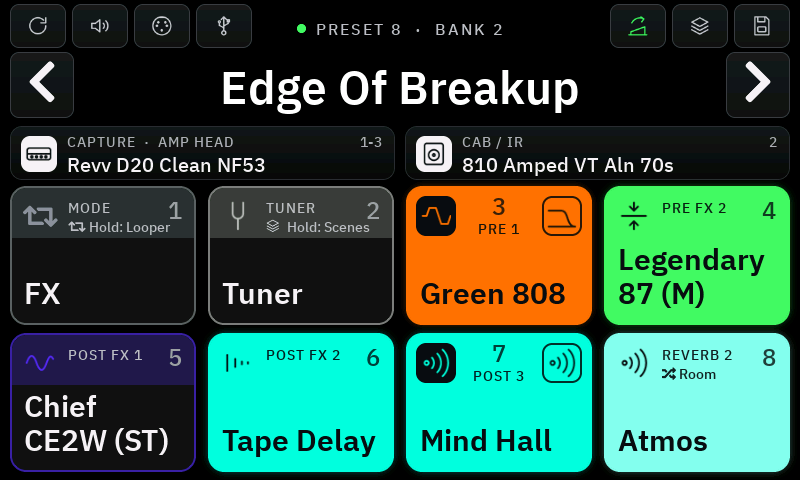
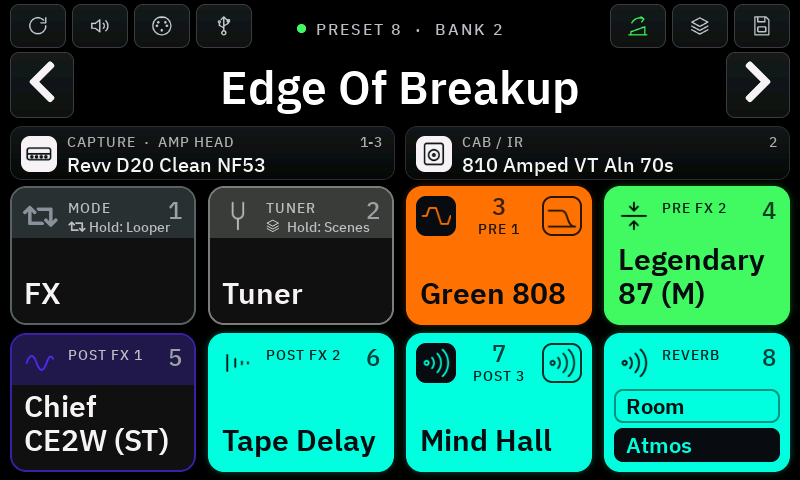
Reverb settings tile shows both names as rows; larger scene marks
- The reverb switch with two settings: both names on the tile, the one that is on filled, the other
  outlined (filled = on, as everywhere); neither filled when the reverb is set to something else.
- Scene tiles: the five effect marks 20 px instead of 14.

Changed region(s): [[0.75, 0.6875, 1.0, 1.0]]

diff --git a/main/ui.c b/main/ui.c
@@ -128,6 +128,9 @@ static lv_obj_t *s_cal_panel, *s_cal_bar, *s_cal_text, *s_cal_save;
 static lv_obj_t *s_ex_jack[2];   // the Nano's EXP/MIDI connector: [0] expression pedal, [1] MIDI
 static int s_jack_mode = -1;     // NANO_JACK_*, -1 = not known
 static bool s_linked;         // connected to the Nano
+// The reverb switch with two settings: both names as rows on the tile, the one that is on filled (draw_pair).
+typedef struct { bool shown, on; int active; char names[2][16]; uint32_t color; } tile_pair_t;   // active: 0 / 1, -1 = neither
+static tile_pair_t s_tile_pair[TILES];
 static int s_tile_marks[TILES];                 // 0 = none, else 0x200 | 0x100 if the tile is filled | bit n = FX slot n on
                                                 // | bit 16 + n = the scene carries settings for slot n
 static uint32_t s_slot_type[NANO_FX_SLOTS];     // effects of the current preset (filled by ui_show_state)
@@ -610,12 +613,13 @@ static void draw_scene_marks(lv_layer_t *layer, const lv_area_t *tile, int i)
         const nano_fx_model_t *model = nano_fx_model(s_slot_type[slot]);
         bool on = (s_tile_marks[i] >> slot) & 1;
         uint32_t color = filled ? s_tile_ink[i] : model ? model->color : 0x4A4F55;
-        lv_area_t a = { tile->x1 + 14 + slot * 21, tile->y1 + 16, tile->x1 + 14 + slot * 21 + 14, tile->y1 + 16 + 14 };
+        const int size = 20, pitch = 27, top = 12;   // (14 px marks could not be told apart from standing height)
+        lv_area_t a = { tile->x1 + 14 + slot * pitch, tile->y1 + top, tile->x1 + 14 + slot * pitch + size, tile->y1 + top + size };
         lv_draw_rect_dsc_t r;
         lv_draw_rect_dsc_init(&r);
-        r.radius = 4;
+        r.radius = 6;
         if (!model) {
-            a = (lv_area_t){ a.x1 + 5, a.y1 + 5, a.x2 - 5, a.y2 - 5 };
+            a = (lv_area_t){ a.x1 + 7, a.y1 + 7, a.x2 - 7, a.y2 - 7 };
             r.radius = LV_RADIUS_CIRCLE;
             r.bg_color = lv_color_hex(color);
             r.bg_opa = filled ? LV_OPA_50 : LV_OPA_COVER;
@@ -629,7 +633,7 @@ static void draw_scene_marks(lv_layer_t *layer, const lv_area_t *tile, int i)
         }
         lv_draw_rect(layer, &r, &a);
         if (model && ((s_tile_marks[i] >> (16 + slot)) & 1)) {   // the scene carries settings for this effect
-            lv_area_t bar = { a.x1 + 1, a.y2 + 4, a.x2 - 1, a.y2 + 6 };
+            lv_area_t bar = { a.x1 + 1, a.y2 + 4, a.x2 - 1, a.y2 + 7 };
             lv_draw_rect_dsc_init(&r);
             r.radius = 1;
             r.bg_color = lv_color_hex(color);
@@ -639,16 +643,51 @@ static void draw_scene_marks(lv_layer_t *layer, const lv_area_t *tile, int i)
     }
 }
 
+// The two settings of the reverb as two rows - the one that is on filled, the other outlined (as every pair of
+// states here: filled = on). With the reverb off the rows are dimmed, and the one that would be on stays marked.
+static void draw_pair(lv_layer_t *layer, const lv_area_t *tile, int i)
+{
+    const int h = 33, gap = 6, pad = 10;
+    for (int n = 0; n < 2; n++) {
+        int y2 = tile->y2 - pad - (1 - n) * (h + gap);
+        lv_area_t a = { tile->x1 + pad, y2 - h, tile->x2 - pad, y2 };
+        bool active = s_tile_pair[i].active == n;
+        uint32_t ink = s_tile_ink[i];
+        lv_draw_rect_dsc_t r;
+        lv_draw_rect_dsc_init(&r);
+        r.radius = 9;
+        if (active) {
+            r.bg_color = lv_color_hex(s_tile_pair[i].on ? ink : blend(s_tile_pair[i].color, TILE_OFF_BG, 0.45f));
+        } else {
+            r.bg_opa = LV_OPA_TRANSP;
+            r.border_width = 2;
+            r.border_color = lv_color_hex(s_tile_pair[i].on ? ink : 0x5D6267);
+            r.border_opa = s_tile_pair[i].on ? 110 : LV_OPA_COVER;
+        }
+        lv_draw_rect(layer, &r, &a);
+        lv_draw_label_dsc_t d;
+        lv_draw_label_dsc_init(&d);
+        d.font = &ui_font_title_22;
+        d.text = s_tile_pair[i].names[n];
+        d.align = LV_TEXT_ALIGN_LEFT;
+        d.color = lv_color_hex(active ? (s_tile_pair[i].on ? s_tile_pair[i].color : 0xFFFFFF) : s_tile_pair[i].on ? ink : 0xB9BDC2);
+        int lh = lv_font_get_line_height(d.font);
+        lv_area_t t = { a.x1 + 12, a.y1 + (h - lh) / 2 + 1, a.x2 - 8, a.y1 + (h - lh) / 2 + 1 + lh };
+        lv_draw_label(layer, &d, &t);
+    }
+}
+
 // A tile that is not active: its top row (symbol, caption, number) lies on the dimmed colour.
 static void on_tile_draw(lv_event_t *e)
 {
     int i = (int)(intptr_t)lv_event_get_user_data(e);
-    if (!s_tile_head[i] && !s_tile_marks[i]) return;
+    if (!s_tile_head[i] && !s_tile_marks[i] && !s_tile_pair[i].shown) return;
     lv_area_t a;
     lv_obj_get_coords(lv_event_get_current_target_obj(e), &a);
     lv_area_t in = { a.x1 + 2, a.y1 + 2, a.x2 - 2, a.y2 - 2 };   // inside the border
     if (s_tile_head[i]) draw_top(lv_event_get_layer(e), &in, 14, 50, blend(s_tile_head[i], TILE_OFF_BG, 0.24f));
     if (s_tile_marks[i]) draw_scene_marks(lv_event_get_layer(e), &a, i);
+    if (s_tile_pair[i].shown) draw_pair(lv_event_get_layer(e), &a, i);
 }
 
 static void build_tile(lv_obj_t *parent, int i)
@@ -757,6 +796,7 @@ static void set_tile(int i, const char *caption, const char *name, uint32_t colo
     s_tile_note[i] = NULL;
     s_tile_note_icon[i] = NULL;
     s_tile_marks[i] = 0;        // set again by show_scene_tiles
+    memset(&s_tile_pair[i], 0, sizeof(s_tile_pair[i]));   // set again for the reverb switch with two settings
     lv_obj_t *t = s_tile[i];
     uint32_t head = empty || active ? 0 : color;
     if (head != s_tile_head[i]) {
@@ -852,8 +892,10 @@ static void show_tile_extras(void)
     bool types_changed = memcmp(drawn_types, s_slot_type, sizeof(drawn_types)) != 0;
     memcpy(drawn_types, s_slot_type, sizeof(drawn_types));
     for (int i = 0; i < TILES; i++) {
-        if (s_tile_marks[i] != drawn_marks[i] || (types_changed && s_tile_marks[i])) {
+        static tile_pair_t drawn_pair[TILES];
+        if (s_tile_marks[i] != drawn_marks[i] || (types_changed && s_tile_marks[i]) || memcmp(&s_tile_pair[i], &drawn_pair[i], sizeof(drawn_pair[i]))) {
             drawn_marks[i] = s_tile_marks[i];
+            drawn_pair[i] = s_tile_pair[i];
             lv_obj_invalidate(s_tile[i]);
         }
         const lv_image_dsc_t *pedal = s_tile_pedal_type[i] ? nano_fx_pedal_tile(s_tile_pedal_type[i]) : NULL;
@@ -3417,21 +3459,20 @@ static void show_fx_tiles(const nano_state_t *st, const ui_view_t *view)
     char caption[32];
     const lv_image_dsc_t *icon = NANO_ICONS[NANO_ICON_REVERB];
     if (view->rp_used && view->mix_slot >= 0) {
-        // The switch between two settings of the reverb: the tile carries the name of the one that is in, in the
-        // reverb's colour - the second one in the lighter shade
+        // The switch between two settings of the reverb: the tile carries both names as rows, the one that is in
+        // filled (draw_pair)
         int slot = view->mix_slot, n = view->rp_active == 1 ? 1 : 0;
         const nano_fx_model_t *model = nano_fx_model(st->fx_type[slot]);
         uint32_t color = model ? model->color : 0x00FFDD;
-        bool neither = view->rp_active > 1;   // the reverb is set to something else: its own name, the next press = setting 1
-        if (n) color = blend(color, 0xFFFFFF, 0.5f);
-        int next = neither ? 0 : !n;
-        set_tile(7, neither ? "REVERB" : n ? "REVERB 2" : "REVERB 1",
-                 neither ? nano_fx_name(st->fx_type[slot]) : view->rp_names[n][0] ? view->rp_names[n] : n ? "Setting 2" : "Setting 1", color,
-                 st->fx_on[slot], false, model ? NANO_ICONS[model->icon] : icon, NULL);
-        set_tile_pedal(7, st->fx_type[slot]);
-        // (under the caption: the one the next press brings)
-        snprintf(s_tile_note_text[7], sizeof(s_tile_note_text[7]), LV_SYMBOL_SHUFFLE " %.15s", view->rp_names[next][0] ? view->rp_names[next] : next ? "Setting 2" : "Setting 1");
-        s_tile_note[7] = s_tile_note_text[7];
+        bool neither = view->rp_active > 1;   // the reverb is set to something else: no row is filled, the next press = setting 1
+        set_tile(7, "REVERB", "", color, st->fx_on[slot], false, model ? NANO_ICONS[model->icon] : icon, NULL);
+        s_tile_pair[7].shown = true;
+        s_tile_pair[7].on = st->fx_on[slot];
+        s_tile_pair[7].active = neither ? -1 : n;
+        s_tile_pair[7].color = color;
+        for (int k = 0; k < 2; k++) {
+            snprintf(s_tile_pair[7].names[k], sizeof(s_tile_pair[7].names[k]), "%s", view->rp_names[k][0] ? view->rp_names[k] : k ? "Setting 2" : "Setting 1");
+        }
     } else if (view->rev_b_type && view->mix_slot >= 0) {
         // The switch between the two reverbs: as the tile of a slot with a second effect - both symbols, and the
         // colour says which one runs (B of the same reverb, a second setting of it: the lighter shade).

diff --git a/docs/manual.de.md b/docs/manual.de.md
@@ -274,9 +274,11 @@ vorne ist, bestimmt, was der Schalter ab dann tut**; der gerade verwendete träg
   *Room* und *Atmos* – mit allen Reglern (Mix, Decay, Damping …). Das Reverb bleibt dasselbe, es gibt also keinen
   Aussetzer. Einrichten: das Reverb so einstellen, wie es klingen soll (im FX-Editor von Kachel 7 oder am Nano),
   dann in der Zeile auf **Set from the reverb** tippen; für die andere Einstellung genauso. Ein Tipp auf den Namen
-  ändert ihn. **SAVE** braucht beide Einstellungen. Kachel 8 zeigt dann den Namen der Einstellung, die an ist, und
-  klein die, zu der der nächste Druck wechselt; bei Einstellung 2 ist die Kachel heller. Ein Druck schaltet das
-  Reverb auch ein, falls es aus war.
+  ändert ihn. **SAVE** braucht beide Einstellungen. Kachel 8 zeigt dann beide Namen als zwei Zeilen: Die
+  Einstellung, die an ist, ist gefüllt, die andere umrandet. Welche an ist, erkennt der Controller an den Werten des
+  Reverbs, auch nach einem Presetwechsel; steht das Reverb auf keiner von beiden (von Hand verstellt oder das Preset
+  mit anderen Werten gespeichert), ist keine Zeile gefüllt und der nächste Druck geht zur ersten Einstellung. Ein
+  Druck schaltet das Reverb auch ein, falls es aus war.
   Die zwei Einstellungen speichert der Controller, pro Preset, und sie sind **etwas Eigenes**: Mit dem A und B der
   Reverb-Kachel selbst (Kachel 7) haben sie nichts zu tun – die behält ihren zweiten Effekt und ihr Tippen oder
   Halten wie bisher.
@@ -284,8 +286,7 @@ vorne ist, bestimmt, was der Schalter ab dann tut**; der gerade verwendete träg
   Reverb-Kachel ein zweites Reverb (B) hat, auch dieses. Auf der Reverb-Kachel zu B wechseln, dieses Fenster öffnen
   und seine zwei genauso einrichten – oben rechts steht, welches Reverb gerade im Slot ist. Ab dann wechselt
   Fußschalter 8 zwischen den zwei Einstellungen des Reverbs, das gerade an ist. Bei einem Reverb ohne eigene
-  Einstellungen bleibt der Schalter bei Reverb A / B oder dem Mix, und die Kachel zeigt das. Nach dem Laden eines
-  Presets zeigt die Kachel Einstellung 1 – das Preset am besten mit Einstellung 1 auf dem Nano speichern.
+  Einstellungen bleibt der Schalter bei Reverb A / B oder dem Mix, und die Kachel zeigt das.
 
 ## Zweiter Effekt: A und B auf einem FX-Slot
 

diff --git a/docs/manual.md b/docs/manual.md
@@ -259,16 +259,17 @@ switch does** from then on; the one in use carries a tick.
   *Atmos* – with all its controls (mix, decay, damping …). The reverb stays the same, so there is no gap in the
   sound. To set one up: set the reverb the way you want it (in the FX editor of tile 7 or on the Nano), then tap
   **Set from the reverb** in that row; do the same for the other one. Tap a name to change it. **SAVE** needs both
-  settings. Tile 8 then shows the name of the setting that is on and, small, the one the next press goes to; with
-  setting 2 on the tile is a lighter shade. A press also switches the reverb on if it was off.
+  settings. Tile 8 then shows both names as two rows: the setting that is on is filled, the other one outlined.
+  The controller tells which one is on from the reverb's values, also after a preset change; if the reverb is set
+  to neither (changed by hand, or the preset was stored with other values), no row is filled and the next press
+  goes to the first setting. A press also switches the reverb on if it was off.
   The two settings are stored on the controller, per preset, and are **their own thing**: they have nothing to do
   with the A and B of the reverb's own tile (tile 7), which keeps its second effect and its tap or hold as before.
   **Each reverb of the preset has its own two settings**: the preset's reverb (A) and, if the reverb's tile has a
   second reverb (B), that one too. Switch to B on the reverb's tile, open this dialog and set its two up the same
   way – the header shows which reverb is in the slot. From then on footswitch 8 changes between the two settings of
   whichever reverb is on. A reverb without settings of its own leaves the switch at reverb A / B or the mix, and
-  the tile shows that. After a preset is loaded the tile shows setting 1 – best store the preset on the Nano with
-  setting 1 on.
+  the tile shows that.
 
 ## Second effect: A and B on an FX slot
 
